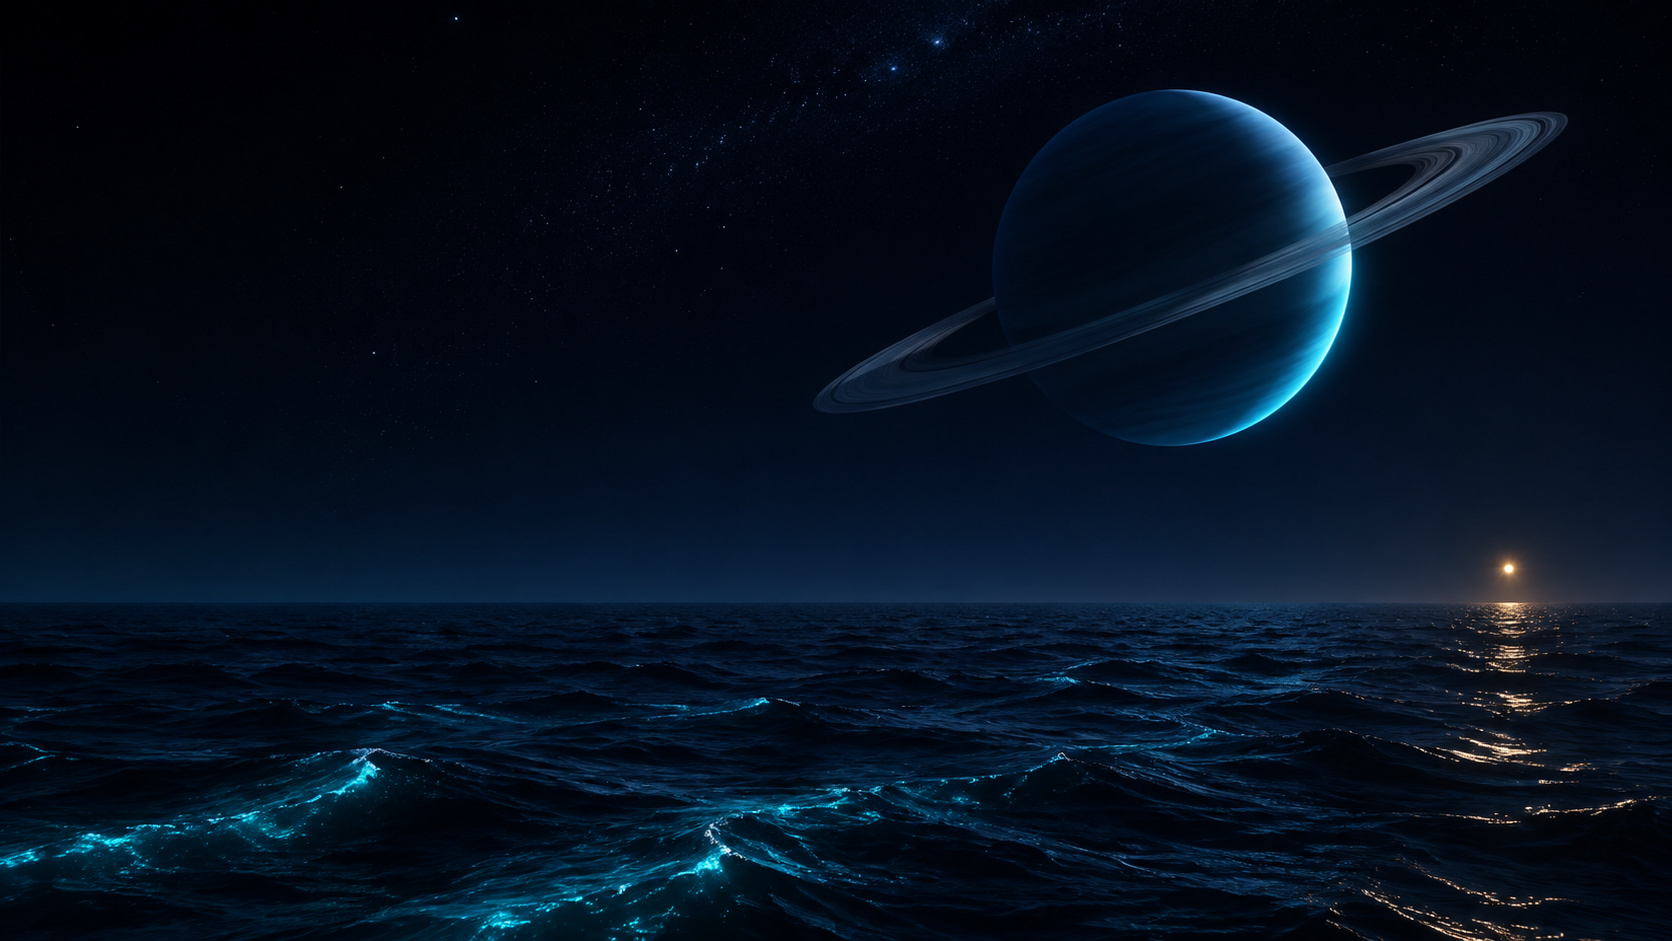
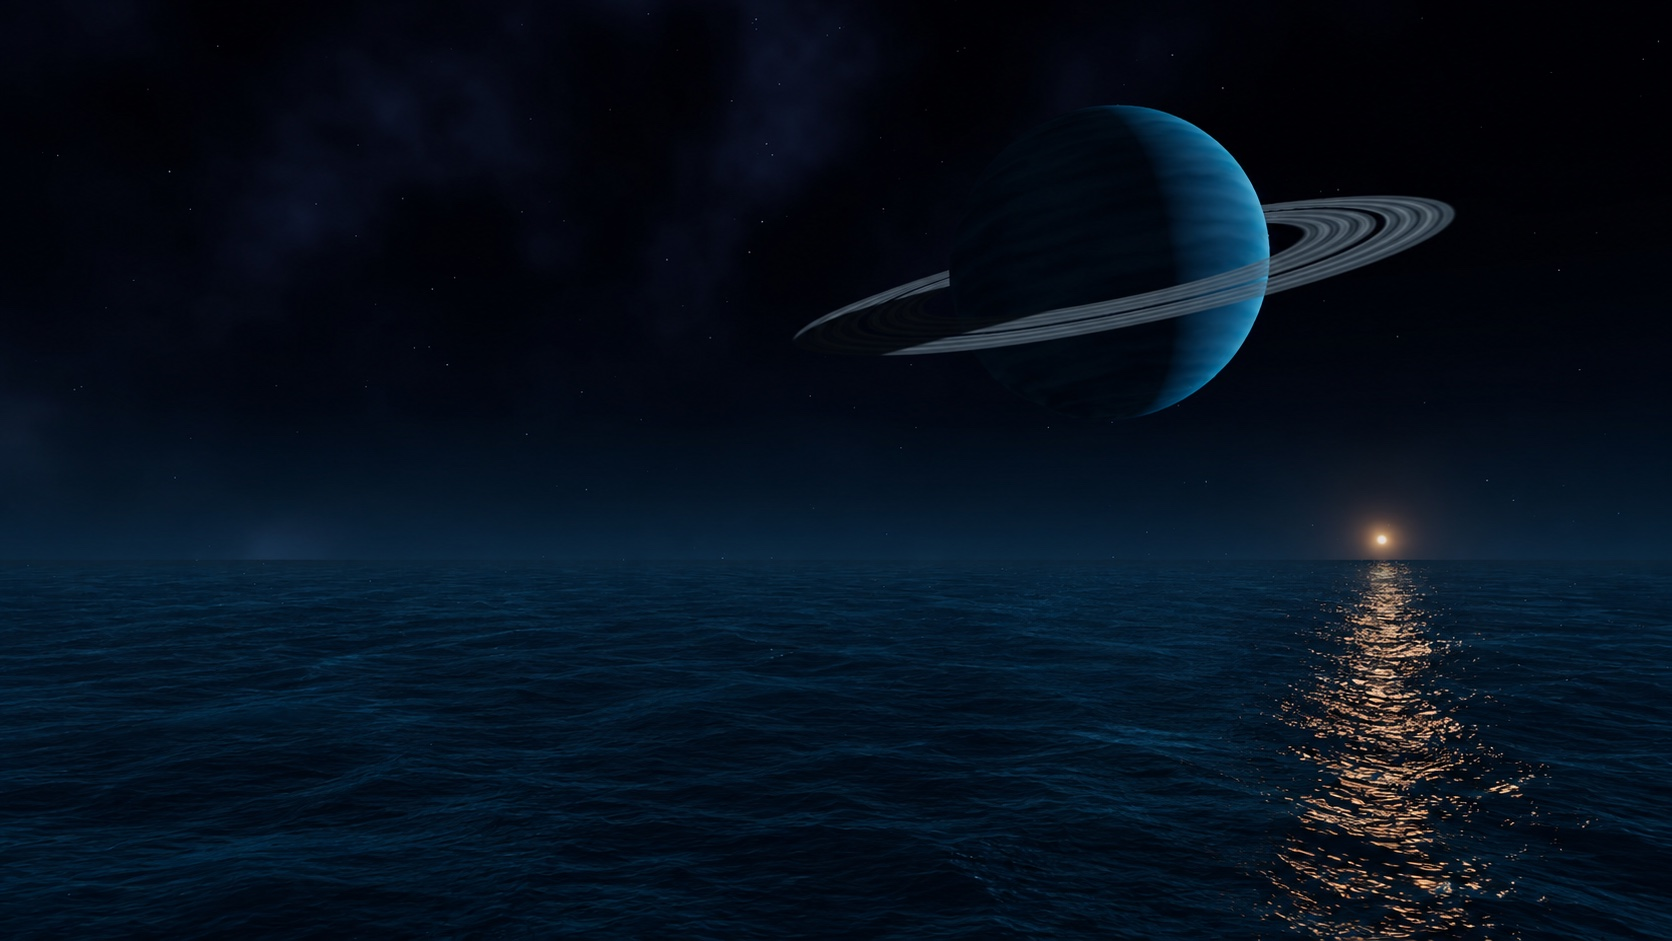
Match fallback image to the current ocean scene

diff --git a/index.html b/index.html
@@ -9,7 +9,7 @@
   <meta property="og:description" content="Evgeniy (OZ). Rust, Angular, Ionic, and software architecture.">
   <meta property="og:type" content="website">
   <meta property="og:url" content="https://jamm.dev/">
-  <meta property="og:image" content="https://jamm.dev/assets/pelagic-orbit.jpg">
+  <meta property="og:image" content="https://jamm.dev/assets/pelagic-orbit.jpg?v=3d-32">
   <title>Evgeniy / OZ — Between sea & stars</title>
   <link rel="icon" href="./favicon.png" type="image/png">
   <link rel="preload" href="./assets/fonts/instrument-serif.woff2" as="font" type="font/woff2" crossorigin>
@@ -22,7 +22,7 @@
 
   <div class="scene" id="scene" aria-hidden="true" data-renderer="still">
     <picture class="scene-poster">
-      <img src="./assets/pelagic-orbit.jpg" width="1672" height="941" alt="" fetchpriority="high" decoding="async">
+      <img src="./assets/pelagic-orbit.jpg?v=3d-32" width="1672" height="941" alt="" fetchpriority="high" decoding="async">
     </picture>
     <canvas id="scene-canvas"></canvas>
     <div class="scene-shade"></div>
